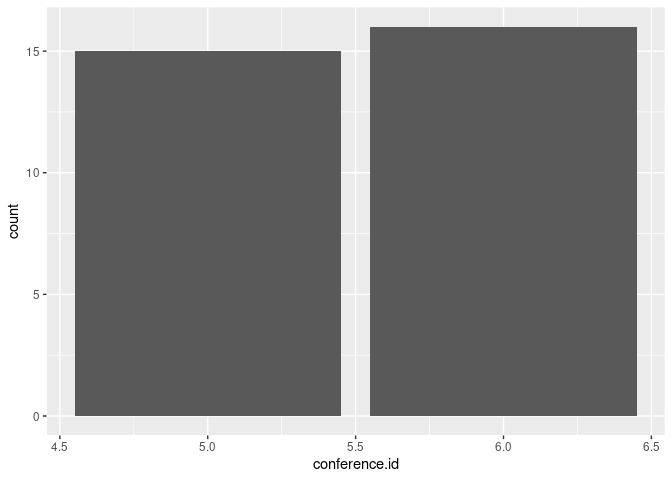
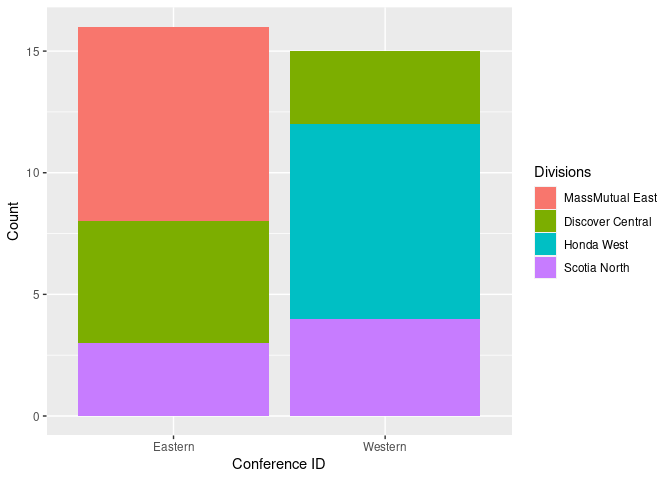
color to visuals and updates to the markdown file

diff --git a/project_markdown.md b/project_markdown.md
@@ -10,18 +10,20 @@ Halid Kopanski
   - [Display Data](#display-data)
   - [One Stop Shop Data](#one-stop-shop-data)
 
+``` r
+library(httr)
+library(jsonlite)
+library(tidyverse)
+library(DT)
+library(RSQLite)
+library(bigrquery)
+library(DBI)
+library(knitr)
+```
+
 ## Create data functions
 
 ## Exploratory Data Analysis
-
-    ## No encoding supplied: defaulting to UTF-8.
-    ## No encoding supplied: defaulting to UTF-8.
-    ## No encoding supplied: defaulting to UTF-8.
-    ## No encoding supplied: defaulting to UTF-8.
-    ## No encoding supplied: defaulting to UTF-8.
-    ## No encoding supplied: defaulting to UTF-8.
-    ## No encoding supplied: defaulting to UTF-8.
-    ## No encoding supplied: defaulting to UTF-8.
 
     ## [1] "id"               "firstSeasonId"    "fullName"         "lastSeasonId"    
     ## [5] "mostRecentTeamId" "teamAbbrev"       "teamCommonName"   "teamPlaceName"
@@ -120,21 +122,9 @@ Halid Kopanski
 
 ## Team Specific Information
 
-    ## No encoding supplied: defaulting to UTF-8.
-    ## No encoding supplied: defaulting to UTF-8.
-    ## No encoding supplied: defaulting to UTF-8.
-    ## No encoding supplied: defaulting to UTF-8.
-    ## No encoding supplied: defaulting to UTF-8.
-    ## No encoding supplied: defaulting to UTF-8.
-
 | id | franchiseName       | lossStreak | winStreak | mostGoals | fewestGoals |
 | -: | :------------------ | ---------: | --------: | --------: | ----------: |
 | 10 | Toronto Maple Leafs |         10 |        10 |       337 |         147 |
-
-    ## No encoding supplied: defaulting to UTF-8.
-    ## No encoding supplied: defaulting to UTF-8.
-    ## No encoding supplied: defaulting to UTF-8.
-    ## No encoding supplied: defaulting to UTF-8.
 
     ##  [1] "id"                      "activePlayer"           
     ##  [3] "firstName"               "franchiseId"            
